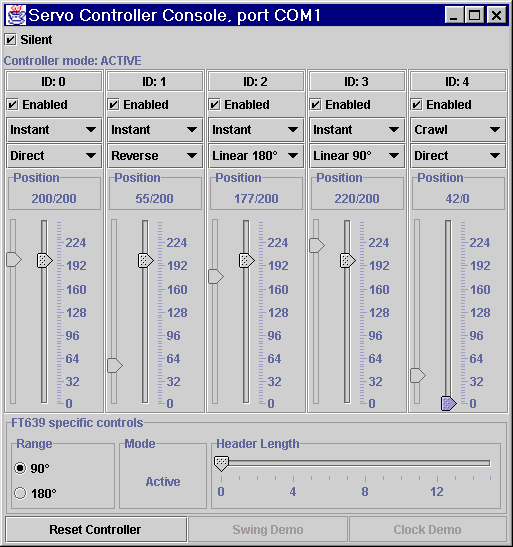
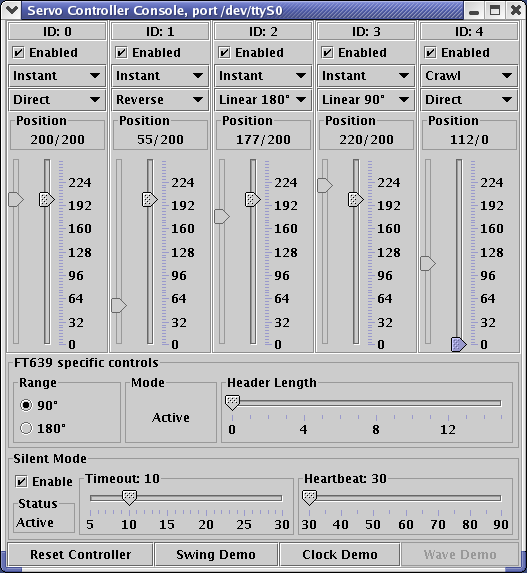
Documentation update

diff --git a/servomaster/docs/build.html b/servomaster/docs/build.html
@@ -475,9 +475,34 @@ org.freehold.servomaster.device.impl.ft.FT639ServoController \
                                          
                                          <p>
                                          
-                                         That's it, you should be seeing the console right now.
+                                         That's it, you should be seeing the
+                                         console right now. Additionally,
+                                         the following output goes to the
+                                         console:
+                                         
+                                         <pre>
+                                         
+Features:
+controller/protocol/serial: true
+controller/silent: true
+Properties:
+controller/bandwidth: 150
+controller/maxservos: 5
+controller/precision: 256
+controller/range: 90
+controller/silent: 5000
+manufacturer/URL: http://www.ferrettronics.com/
+manufacturer/model: FT639
+manufacturer/name: FerretTronics
+                                         
         
-                                    
+                                        </pre>
+                                        
+                                        See the <a
+                                        href="../meta/index.html">metadata</a>
+                                        manual for additional information
+                                        about the output.
+                                        
                                 </ol>
                             
                             </blockquote>
@@ -505,18 +530,15 @@ org.freehold.servomaster.device.impl.ft.FT639ServoController \
                             
                                 <img src="images/servomaster_console.png" alt="ServoMaster Console">
                                 
+                                <h3>Display elements common to all servo controllers</h3>
+                                
+                                The top section of the console contains the
+                                elements common to all the servo
+                                controllers: the GUI elements for the servos
+                                themselves. There are following subelements:
+                                
                                 <dl>
                                 
-                                    <dt> <b>Silent</b>
-                                    
-                                    <dd> The <b>Silent</b> checkbox, if
-                                         checked (default if the controller
-                                         <a
-                                         href="apidocs/org/freehold/servomaster/device/model/ServoControllerMetaData.html">supports</a>
-                                         it), puts the controller in a
-                                         'sleep' mode - stops the servo
-                                         pulse after a timeout.
-                                    
                                     <dt> <b>ID</b>
                                     
                                     <dd> is a controller-specific servo name.
@@ -565,12 +587,51 @@ org.freehold.servomaster.device.impl.ft.FT639ServoController \
                                 
                                 </dl>
                                 
-                                The stuff below pertains to the specific
-                                controller features, and is usually either
-                                self-explanatory or too weird to bother.
-                                Since the controller name is there, just
-                                look up the release notes on that particular
-                                controller in the <a
+                                <h3>Controller specific display elements</h3>
+                                
+                                Depending on features supported by
+                                particular servo controllers, additional
+                                panels may show up. One frequently
+                                encountered feature is the silent mode
+                                support.
+                                
+                                <dl>
+                                    <dt> <b>Enable</b>
+                                    
+                                    <dd> The <b>Enable</b> checkbox, if
+                                         checked (default if the controller
+                                         <a
+                                         href="apidocs/org/freehold/servomaster/device/model/Meta.html">supports</a>
+                                         it), puts the controller in a
+                                         'sleep' mode - stops the servo
+                                         pulse after a timeout.
+                                         
+                                    <dt> <b>Timeout</b>
+                                    
+                                    <dd> Defines how long the controller
+                                         will keep the servos energized with no
+                                         input.
+                                         
+                                    <dt> <b>Heartbeat</b>
+                                    
+                                    <dd> To prevent the servos to drift
+                                         under load, the controller may
+                                         reissue the positional commands
+                                         once in a while even if it is in a
+                                         sleeping mode.  Heartbeat interval
+                                         determines how often does this
+                                         happen.
+                                
+                                </dl>
+                                
+                                <hr width=100 align=left>
+                                
+                                The rest of the console pertains to the
+                                specific controller features, and is usually
+                                either self-explanatory or too weird to
+                                bother.  Since the controller name is there,
+                                just look up the release notes on that
+                                particular controller in the <a
                                 href="index.html">index</a>.
                                 
                             
